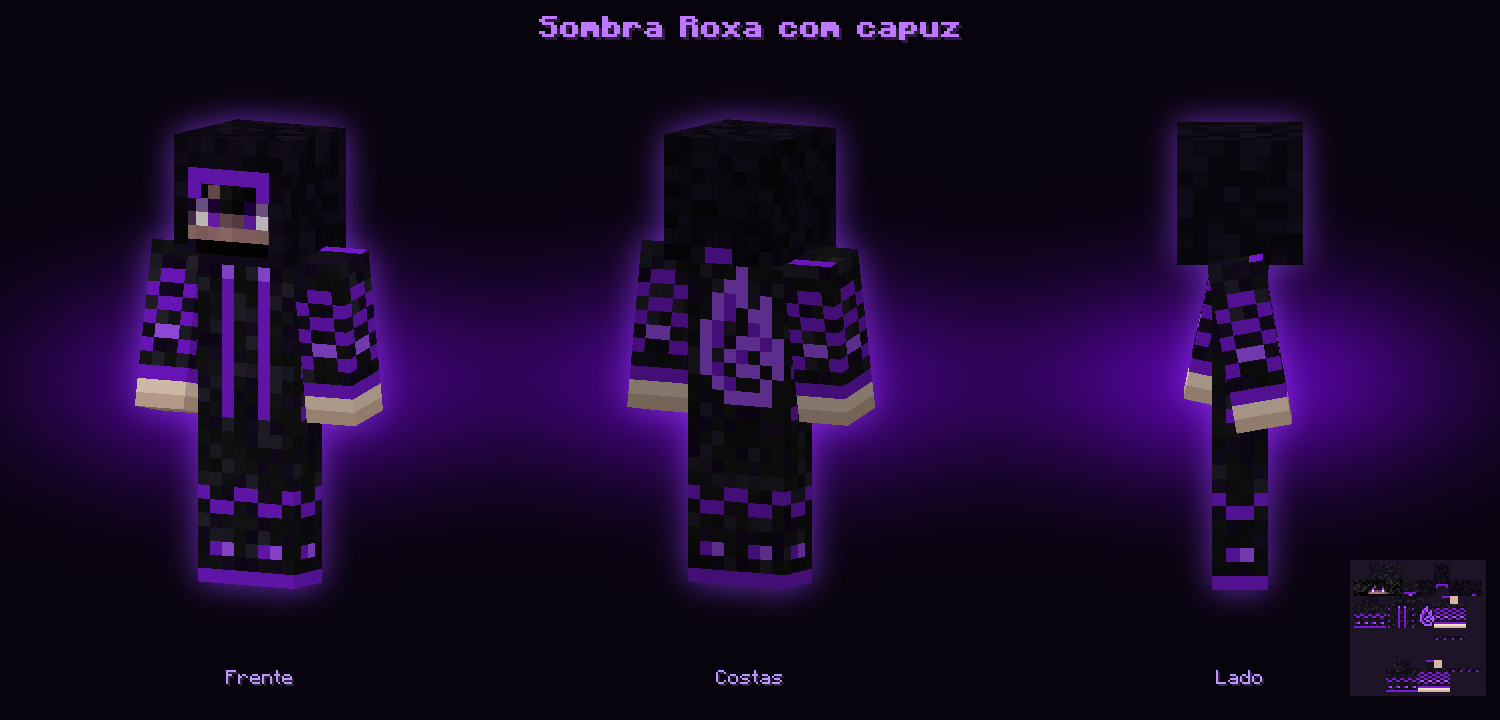
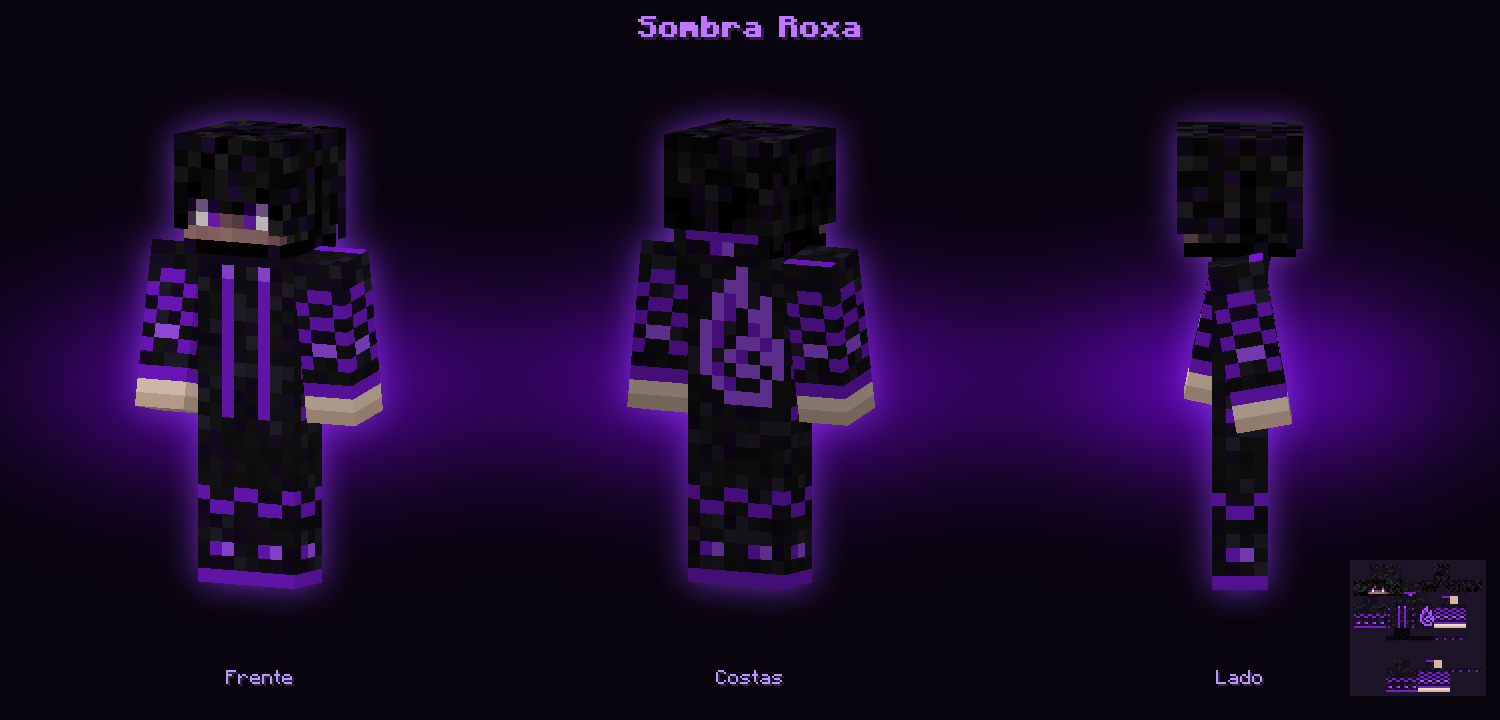
Skin Sombra Roxa: capuz feito de cabelo como na referencia e gola alta
Claude-Session: https://claude.ai/code/session_01Vzt37KYgrEvBbcVjWKzEed

diff --git a/tools/gerar_skin_sombra_roxa_capuz.py b/tools/gerar_skin_sombra_roxa_capuz.py
@@ -1,45 +1,53 @@
 #!/usr/bin/env python3
-"""Variante "Sombra Roxa com capuz": pega a skin Sombra Roxa e desenha um capuz na camada de
-cima da cabeça (topo, lados e nuca fechados; na frente, só a moldura com borda roxa).
+"""Variante "Sombra Roxa com capuz de cabelo", como na referência do jogador: a camada de cima
+da cabeça é o próprio cabelo (blocos pretos e cinza), cobrindo topo, lados e nuca, com a franja
+na frente e mechas descendo nas bordas até a altura dos olhos. Pele, olhos, máscara e a faixa
+roxa da nuca ficam à mostra.
 Uso: python3 tools/gerar_skin_sombra_roxa_capuz.py arte/skins/sombra_roxa.png arte/skins/sombra_roxa_capuz.png
 """
 import random
 import sys
 from PIL import Image
 
-random.seed(7)
+random.seed(11)
 sk = Image.open(sys.argv[1]).convert("RGBA")
 px = sk.load()
-PANO = [(14, 10, 20), (20, 14, 28), (10, 8, 14), (24, 18, 34)]
-NEON, NEON_C = (122, 26, 214), (168, 85, 255)
+# cores do cabelo tiradas da referência (preto com alguns blocos cinza-escuro)
+CAB = [(0, 0, 0), (8, 8, 8), (8, 8, 8), (14, 14, 13), (16, 16, 16), (24, 24, 24), (27, 27, 26), (37, 36, 39),
+       (26, 12, 40), (20, 10, 32), (34, 16, 52)]   # blocos roxo-escuros misturados no cabelo
 
 
-def pano():
-    return random.choice(PANO) + (255,)
+def cabelo():
+    return random.choice(CAB) + (255,)
 
 
-# camada de cima da cabeça: topo (40,0), lados (32,8) e (48,8), nuca (56,8), frente (40,8)
+def limpa(x0, y0, w, h):
+    for x in range(x0, x0 + w):
+        for y in range(y0, y0 + h):
+            px[x, y] = (0, 0, 0, 0)
+
+
+# camada de cima da cabeça: topo (40,0) | lado direito (32,8) | frente (40,8) | lado esquerdo (48,8) | nuca (56,8)
+limpa(32, 0, 32, 16)
 for x in range(40, 48):
     for y in range(0, 8):
-        px[x, y] = pano()                       # topo fechado
-for (x0, y0) in [(32, 8), (48, 8), (56, 8)]:
+        px[x, y] = cabelo()                                  # topo inteiro
+# frente: franja nas 4 linhas de cima + mechas nas bordas até a altura dos olhos
+for x in range(40, 48):
+    for y in range(8, 12):
+        px[x, y] = cabelo()
+for y in range(12, 14):
+    px[40, y] = cabelo(); px[47, y] = cabelo()
+# lados: cabelo até a altura dos olhos; embaixo fica a pele da bochecha e a máscara
+for x0 in (32, 48):
     for x in range(x0, x0 + 8):
-        for y in range(y0, y0 + 8):
-            px[x, y] = pano()                   # lados e nuca fechados
-# ponta do capuz caindo na nuca
-for x in range(59, 61):
-    px[x, 15] = NEON + (255,)
-# frente: moldura em volta do rosto (2 linhas em cima, 1 coluna de cada lado), borda roxa por dentro
-for x in range(40, 48):
-    for y in range(8, 16):
-        px[x, y] = (0, 0, 0, 0)
-for x in range(40, 48):
-    px[x, 8] = pano(); px[x, 9] = pano()
-for y in range(8, 16):
-    px[40, y] = pano(); px[47, y] = pano()
-for x in range(41, 47):
-    px[x, 10] = (NEON_C if x in (41, 46) else NEON) + (255,)    # borda roxa na testa
-for y in range(10, 16):
-    px[41, y] = NEON + (255,) if y < 12 else px[41, y]
-    px[46, y] = NEON + (255,) if y < 12 else px[46, y]
+        for y in range(8, 14):
+            px[x, y] = cabelo()
+    # mecha mais comprida atrás da orelha (lado oposto ao rosto)
+    atras = x0 if x0 == 32 else x0 + 7
+    px[atras, 14] = cabelo()
+# nuca: cabelo até logo acima da faixa roxa amarrada
+for x in range(56, 64):
+    for y in range(8, 14):
+        px[x, y] = cabelo()
 sk.save(sys.argv[2])

diff --git a/tools/gerar_skin_sombra_roxa.py b/tools/gerar_skin_sombra_roxa.py
@@ -142,6 +142,20 @@ for lado in ("dir", "esq"):                                          # lateral d
     for j in range(2, 12, 3):
         set_(x + 1, y + j, NEON)
 
+# gola alta: a máscara continua numa gola preta grossa em volta do pescoço (camada de cima do corpo)
+G = caixa(16, 32, 8, 12, 4)
+x, y, w, h = G["topo"]
+for i in range(w):
+    for j in range(h):
+        px[x + i, y + j] = random.choice([(3, 3, 3), (8, 6, 10), (14, 8, 20)]) + (255,)
+for f in ("frente", "costas", "dir", "esq"):
+    x, y, w, h = G[f]
+    for i in range(w):
+        for j in range(2):
+            px[x + i, y + j] = random.choice([(3, 3, 3), (8, 6, 10), (14, 8, 20)]) + (255,)
+        px[x + i, y + 2] = (26, 12, 40, 255) if f != "frente" or i in (0, w - 1) else (0, 0, 0, 0)
+
+
 # ============================== BRAÇOS (largos)
 def braco(u, v, ou, ov):
     A = caixa(u, v, 4, 12, 4)
